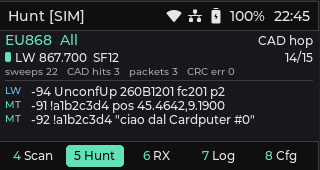
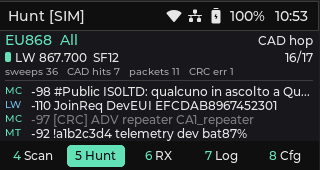
Release 0.2.0: plain Debian version, updated store screenshots
- Debian version is x.y.z (APP_DEBIAN_REVISION empty by default),
  package file LoRaDecoder_<ver>_arm64.deb
- Store screenshots: Hunt with MeshCore traffic, RX on MC EU Narrow

diff --git a/README.md b/README.md
@@ -139,7 +139,7 @@ czb ctest --test-dir build/linux-x86-64 -C Debug --output-on-failure
 ./build/linux-x86-64/Debug/lora_decoder            # needs a host with SDL2
 
 # Device: cross-compile and package (downloads the CM0 BSP sysroot)
-czb cmake --workflow --preset cp0-cross-package    # -> dist/LoRaDecoder_<ver>_rev1_arm64.deb
+czb cmake --workflow --preset cp0-cross-package    # -> dist/LoRaDecoder_<ver>_arm64.deb
 ```
 
 Install the package on the device with `sudo dpkg -i LoRaDecoder_*.deb`, or use `./deploy.sh`.
